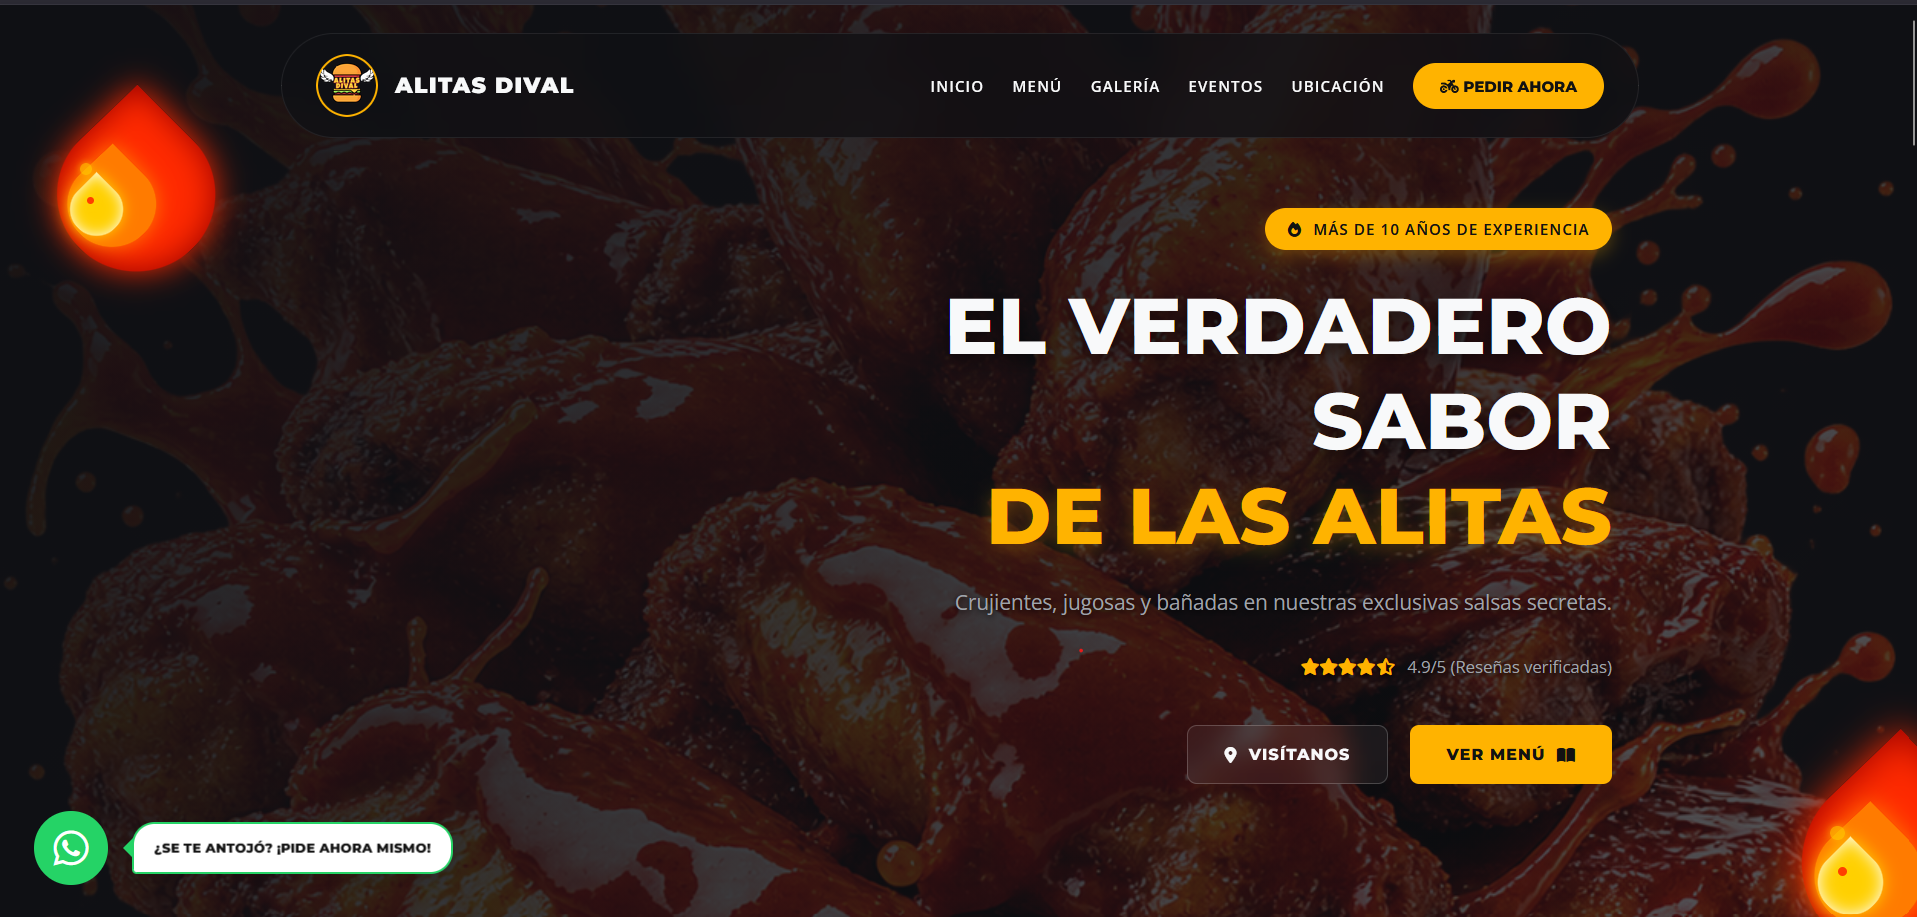
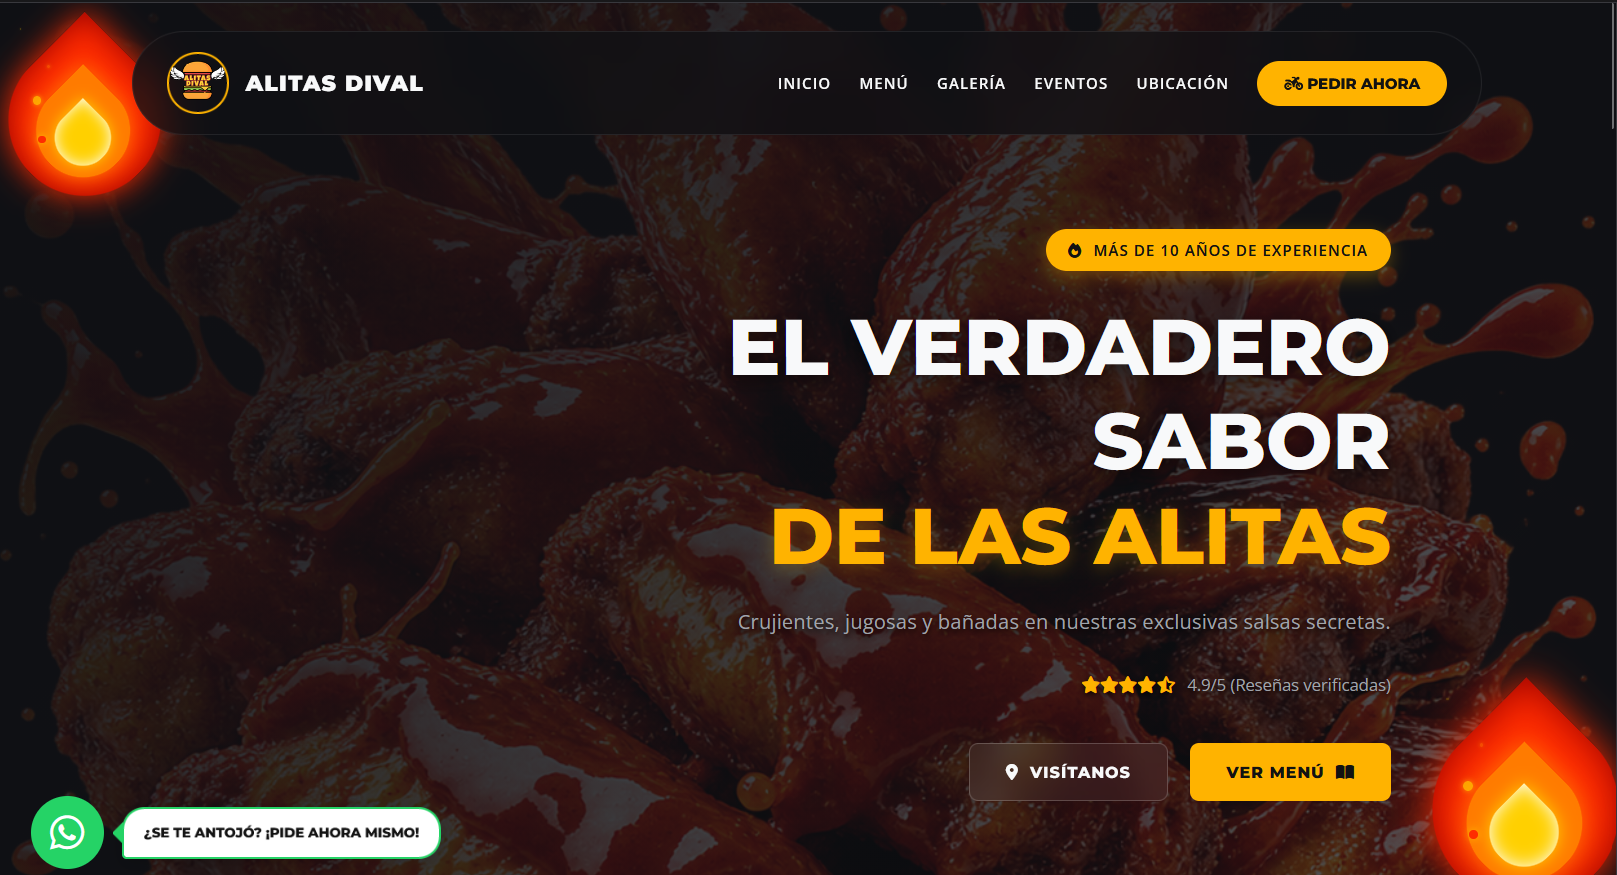
mejora mockup

diff --git a/style.css b/style.css
@@ -1181,17 +1181,13 @@ header.scrolled .nav-container {
 
     /* GUÍA VISUAL PARA CALIBRAR: Cambia top/left/width/height hasta que encaje.
        Borra esta línea de border cuando esté perfecto. */
-
 }
 
 .screen-content-laptop img {
     width: 100%;
-    height: auto;
-    min-height: 100%;
-    object-fit: cover;
-    object-position: top;
+    height: 100%;
+    object-fit: fill;
     display: block;
-    transition: object-position 5s ease-in-out;
 }
 
 /* --- MOCKUP DEL CELULAR --- */
@@ -1213,7 +1209,6 @@ header.scrolled .nav-container {
 
 .screen-content-celular {
     position: absolute;
-    /* Ajustes porcentuales para centrar la captura */
     top: 4.8%;
     left: 36.8%;
     width: 54.5%;
@@ -1221,27 +1216,16 @@ header.scrolled .nav-container {
     border-radius: 20px;
     overflow: hidden;
     background: #000;
-
-    /* GUÍA VISUAL PARA CALIBRAR: Cambia top/left/width/height hasta que encaje.
-       Borra esta línea de border cuando esté perfecto. */
-    border: 3px
 }
 
 .screen-content-celular img {
     width: 100%;
-    height: auto;
-    min-height: 100%;
-    object-fit: cover;
-    object-position: top;
+    height: 100%;
+    object-fit: fill;
     display: block;
-    transition: object-position 5s ease-in-out;
 }
 
-/* --- EFECTO AUTO-SCROLL CSS --- */
-.project-item.mockup-combo:hover .screen-content-laptop img,
-.project-item.mockup-combo:hover .screen-content-celular img {
-    object-position: bottom;
-}
+/* EL BLOQUE DEL EFECTO AUTO-SCROLL FUE ELIMINADO POR COMPLETO */
 
 @keyframes scroll-horizontal {
     0% {
